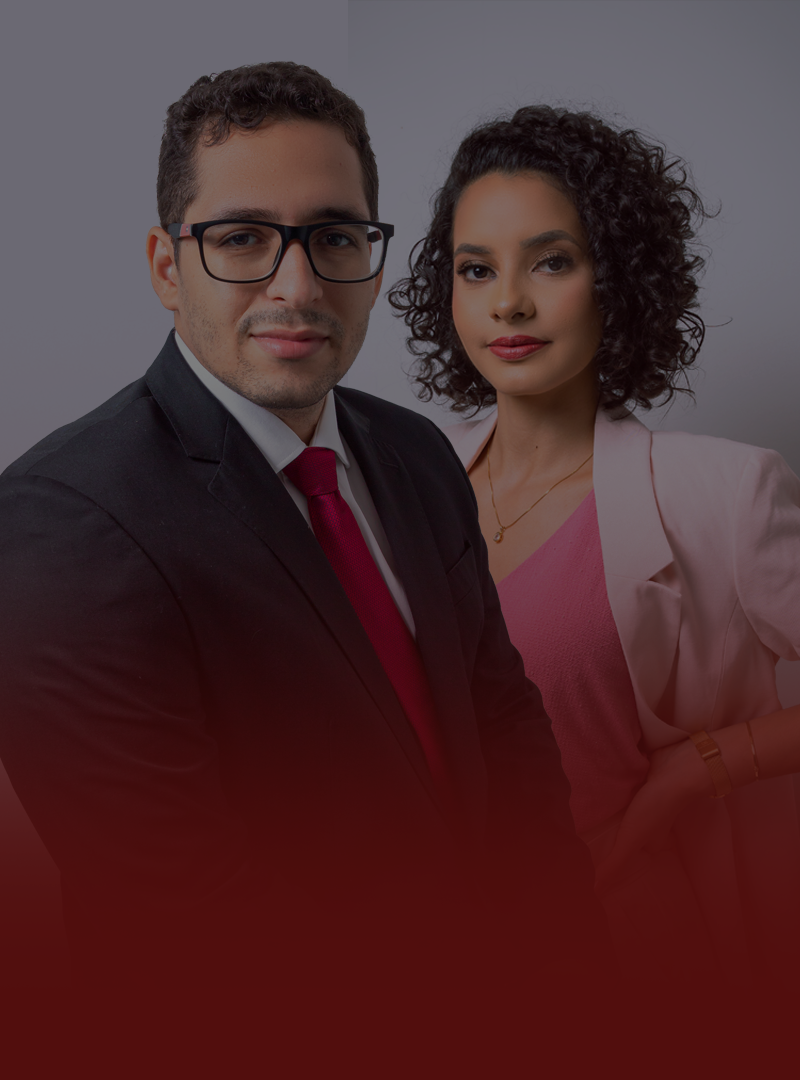
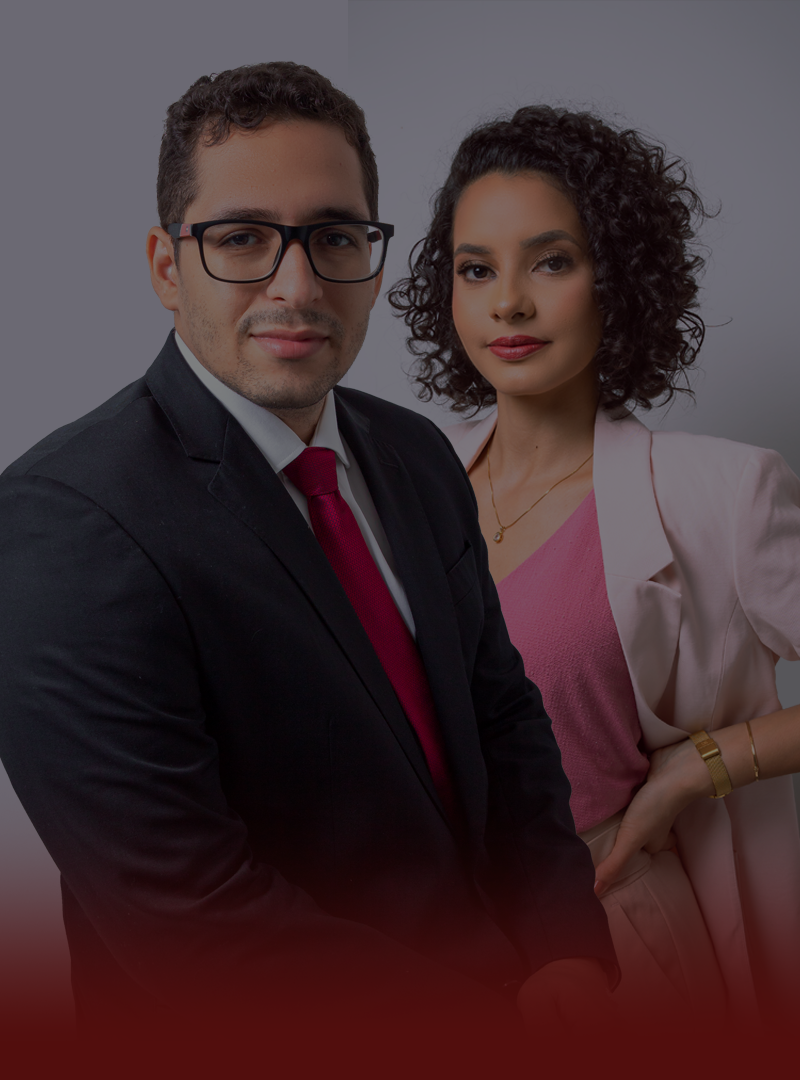
Hero section background fixed

Changed region(s): [[0.0, 0.5194, 1.0, 0.9167]]

diff --git a/src/views/AvisoPrevioPlanoDeSaude/style.scss b/src/views/AvisoPrevioPlanoDeSaude/style.scss
@@ -19,21 +19,24 @@
     justify-content: center;
     gap: rem(16px);
     background-size: cover;
-    background-position: right;
     color: #fff;
 
     @media (min-width: 768px) {
-      // background-image: url('../../assets/hero-section-saude.png');
-      background-color: blue;
+      background-image: url('../../assets/hero-section-saude.png');
+      background-position: right;
+
+      img {
+        width: 15%;
+      }
     }
 
     @media (max-width: 767px) {
-      // background-image: url('../../assets/hero-section-saude.png');
-      background-color: red;
-    }
+      background-image: url('../../assets/hero-section-saude-m.png');
+      background-position: center;
 
-    img {
-      width: 15%;
+      img {
+        width: 30%;
+      }
     }
 
     h1 {
